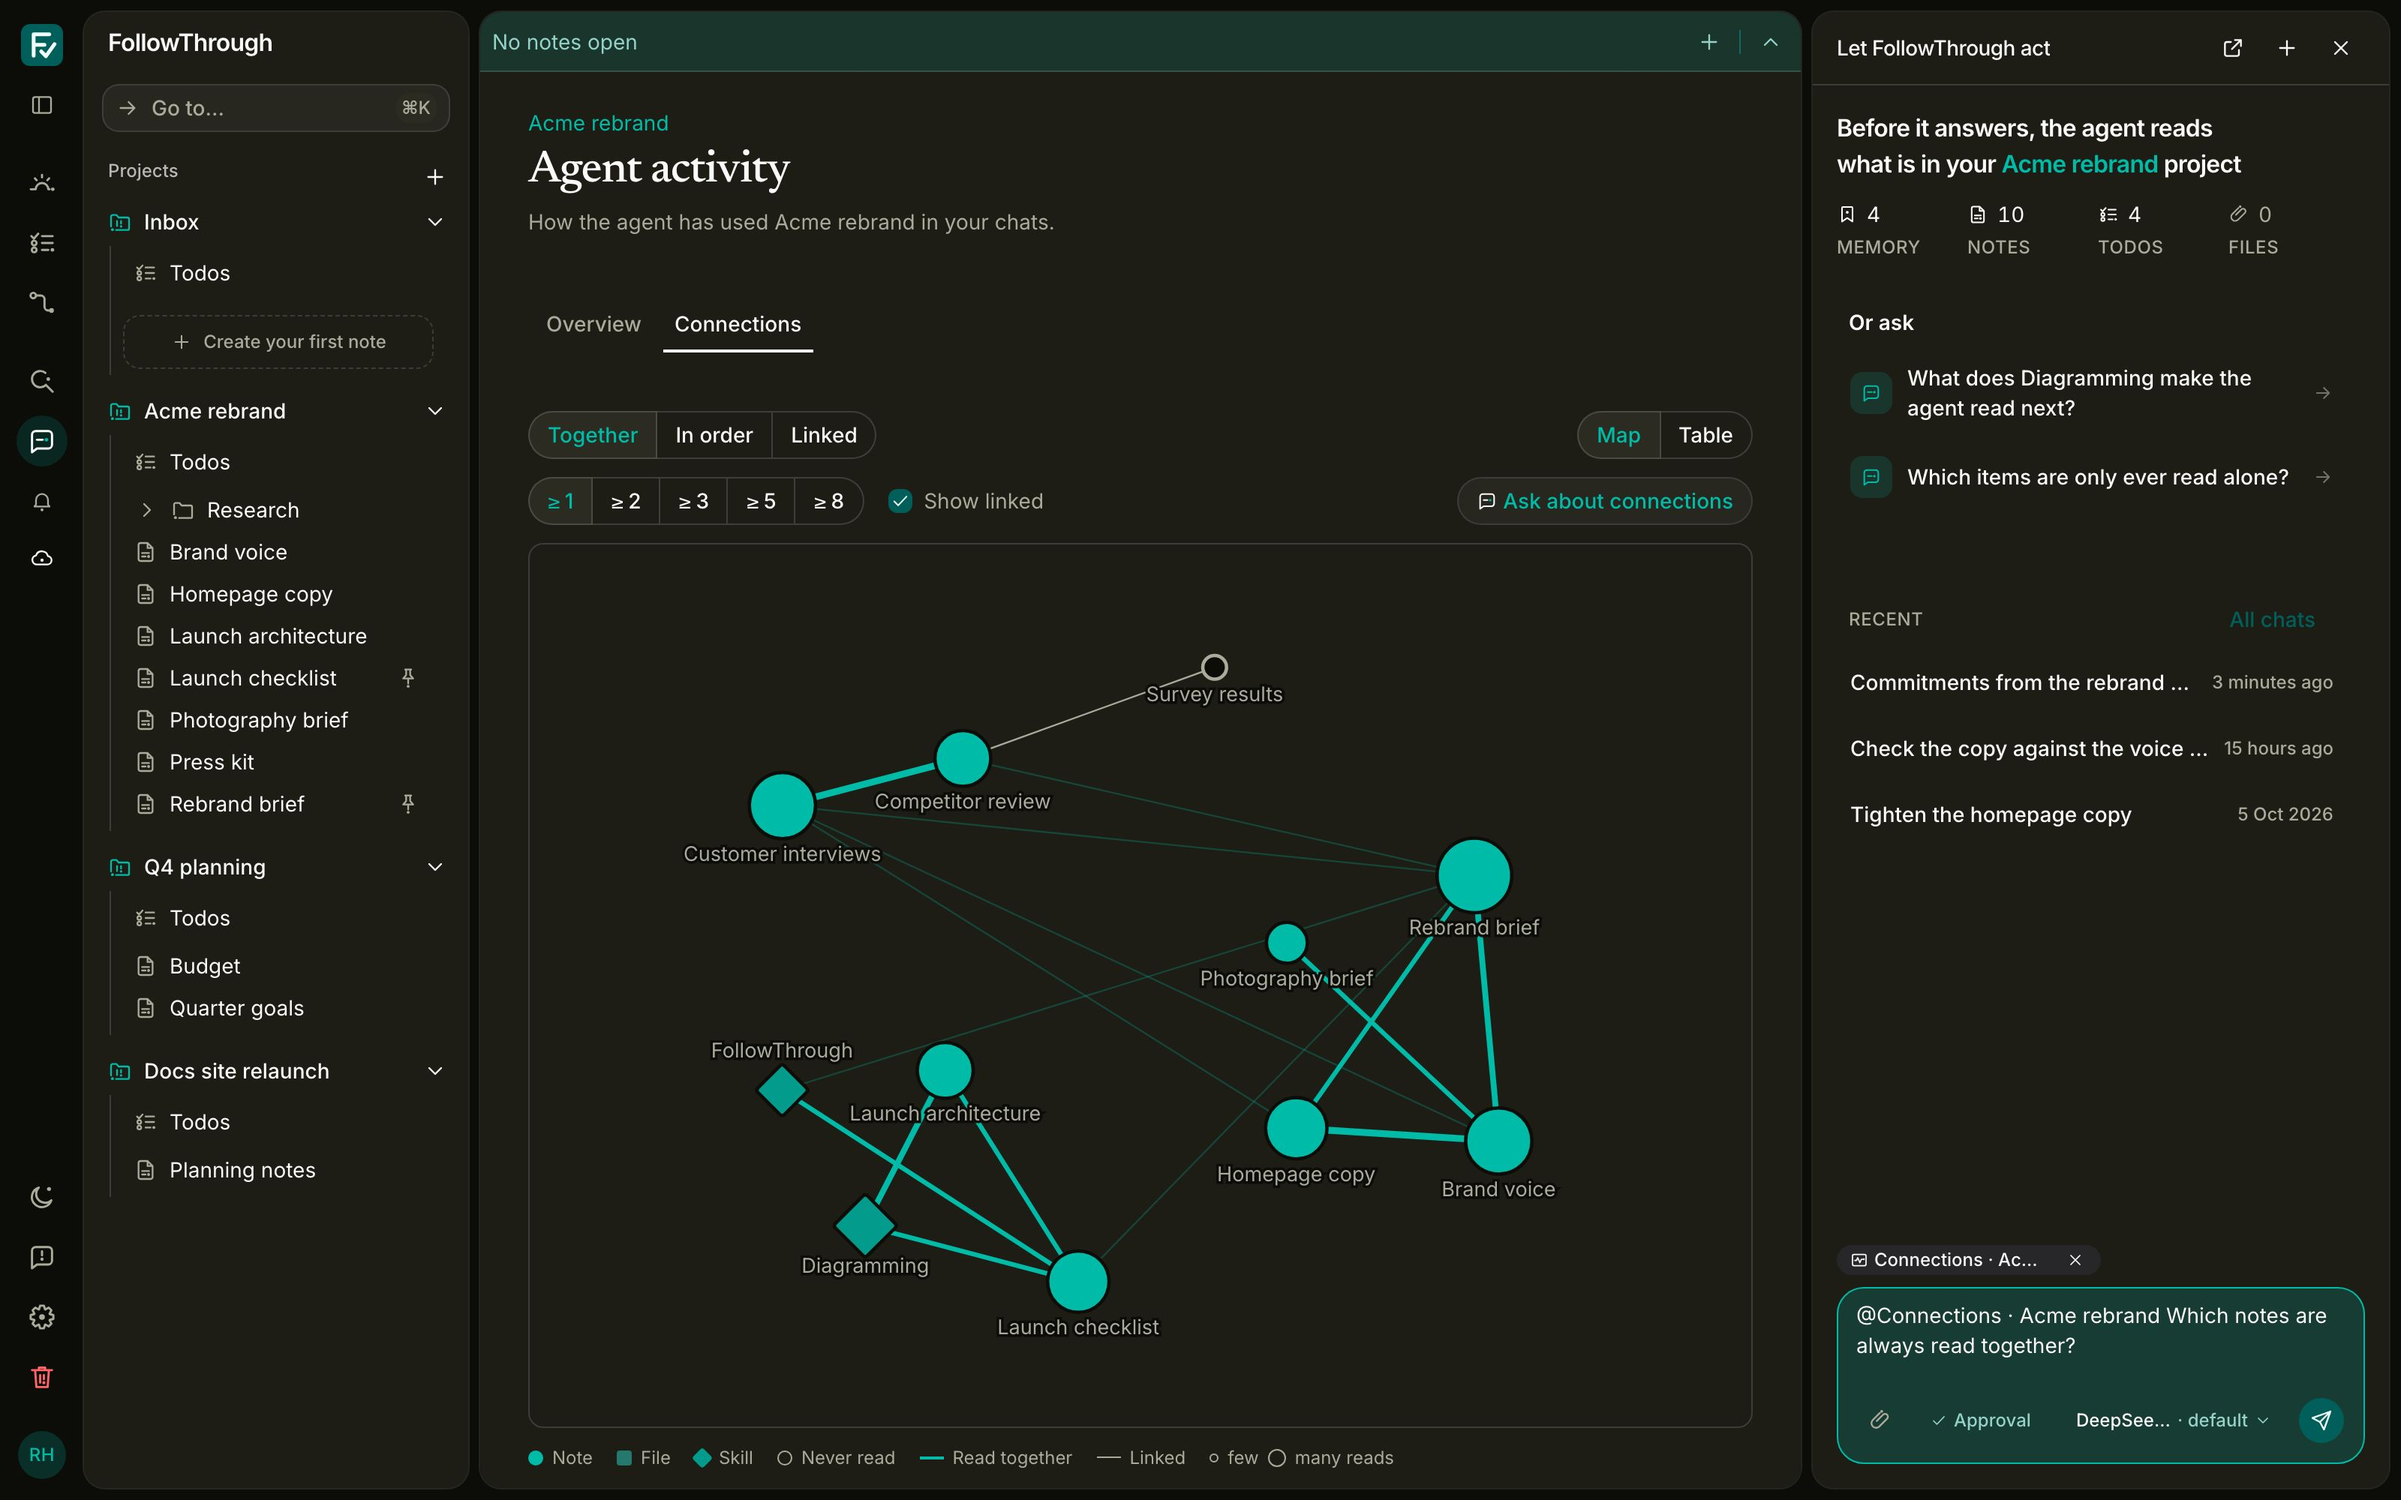
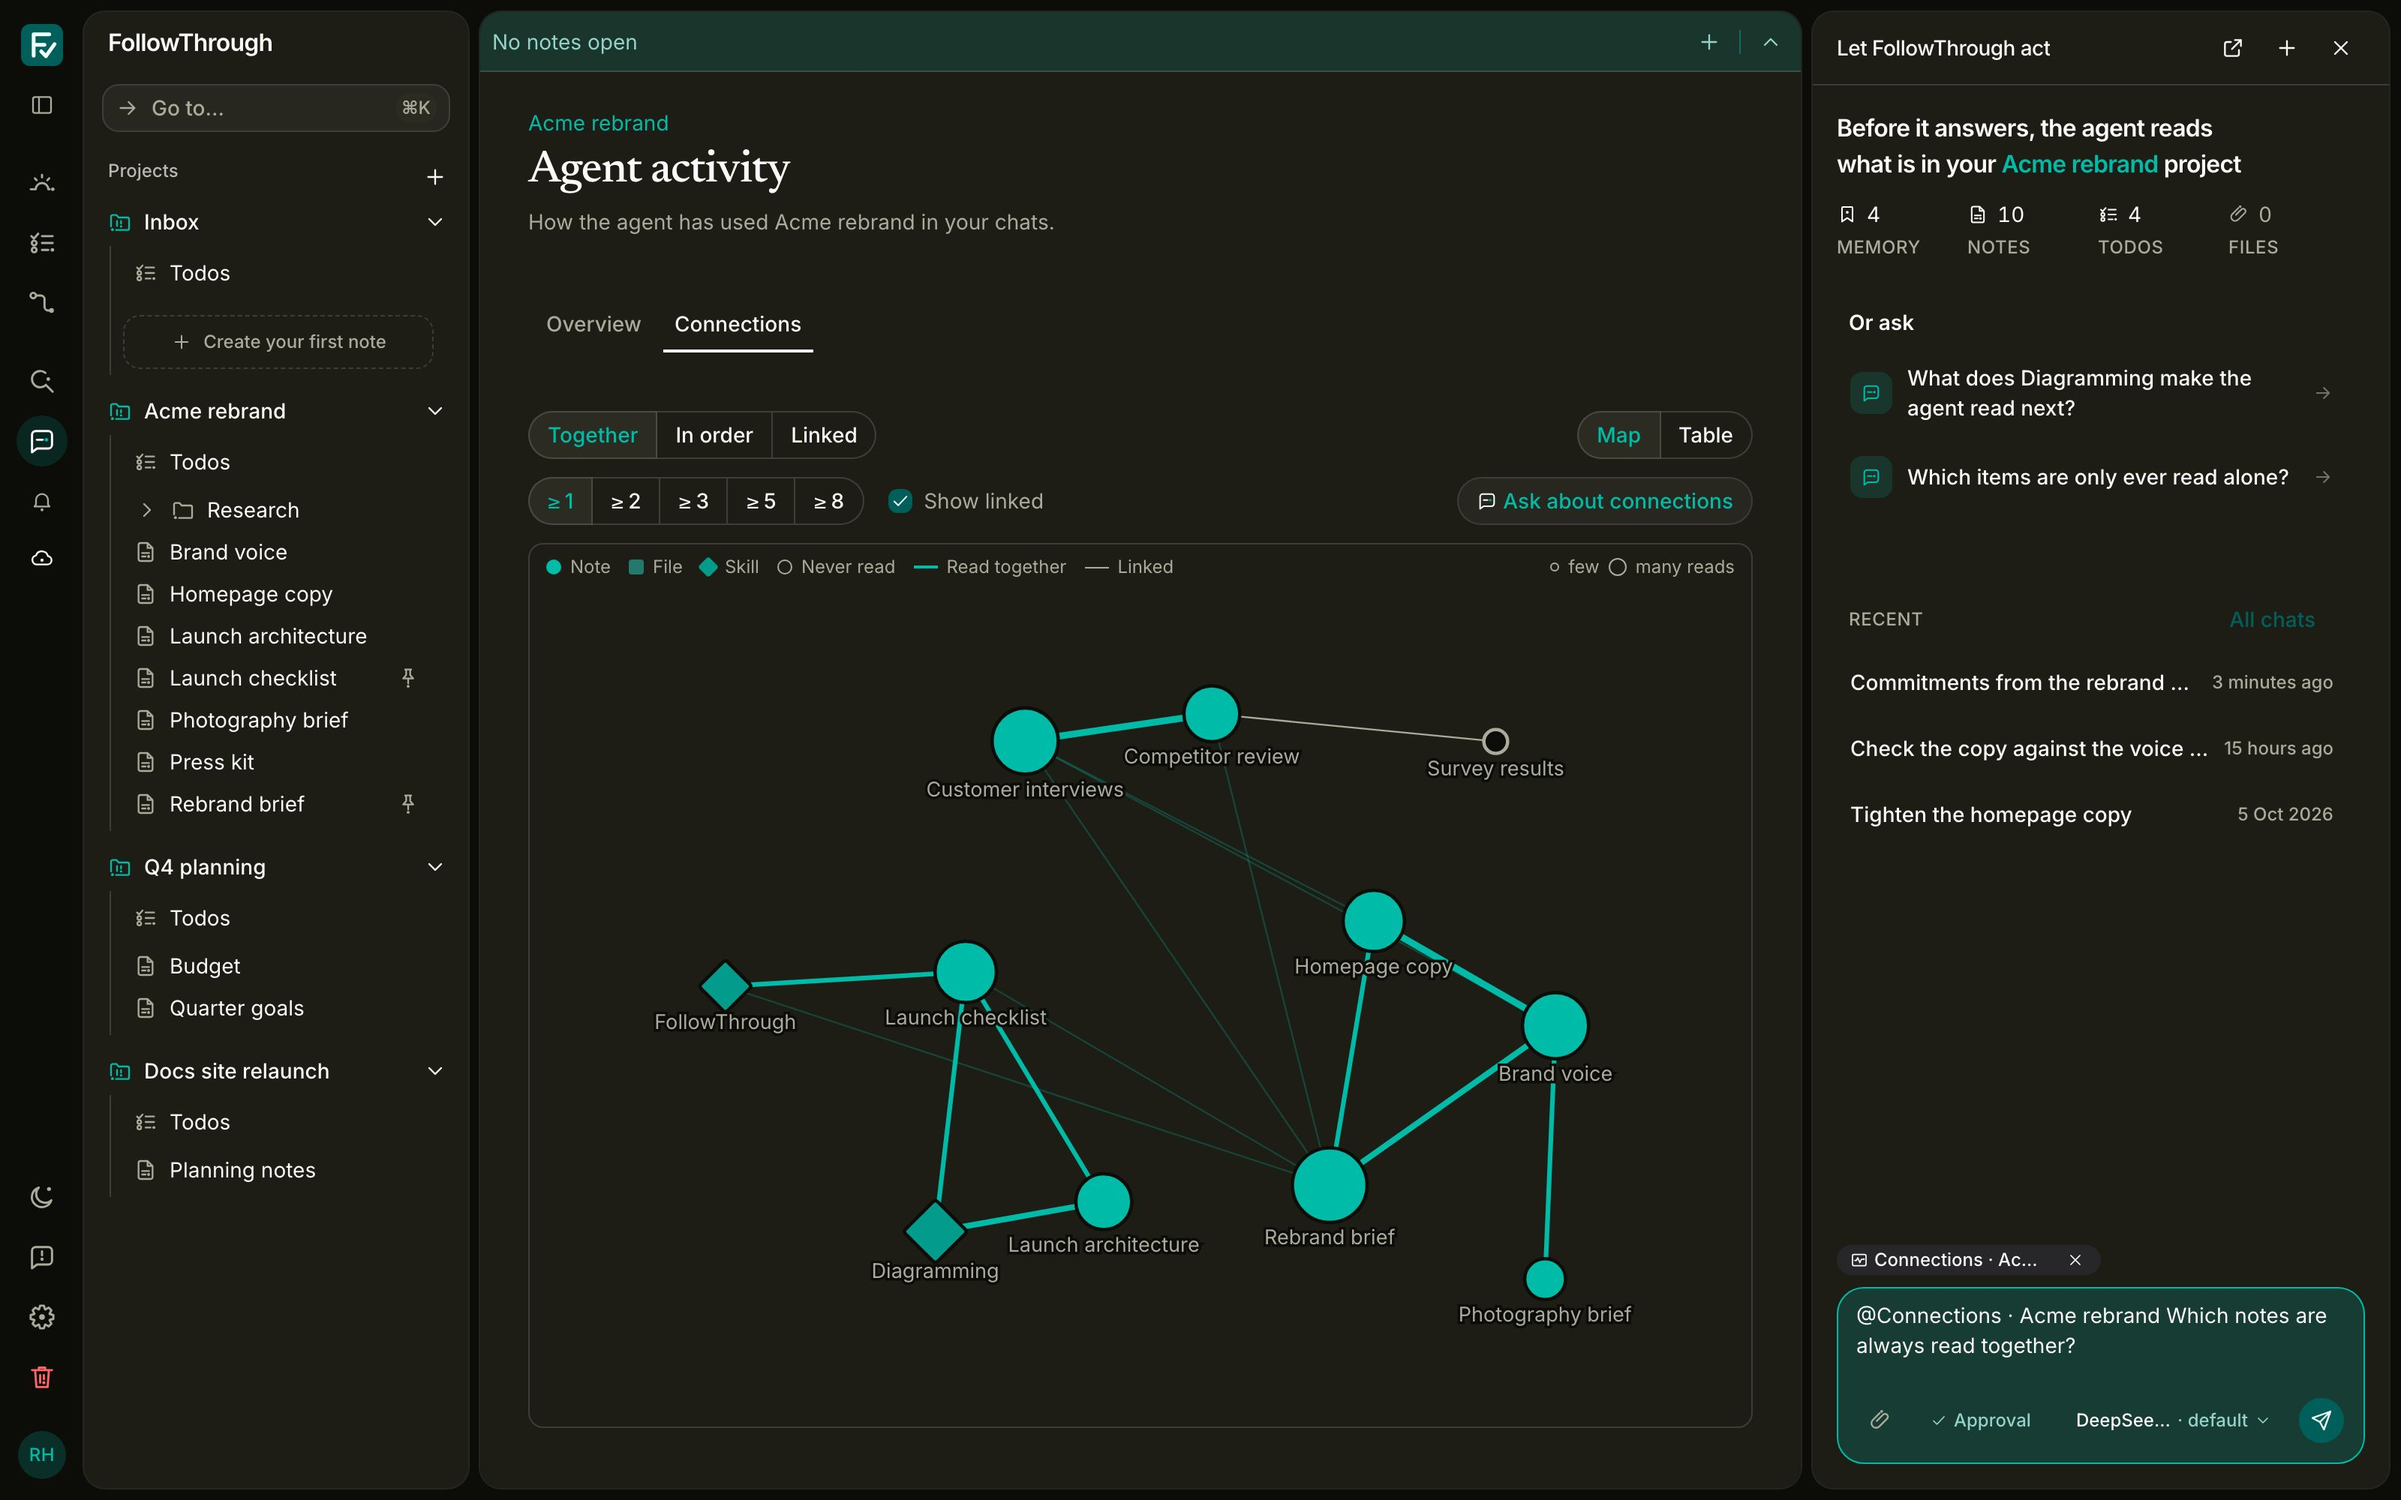
feat(context-usage): draw the connections legend inside the map's top corners

diff --git a/src/lib/components/projects/context-usage/connections/connections-map.svelte b/src/lib/components/projects/context-usage/connections/connections-map.svelte
@@ -181,50 +181,59 @@
 						{ego ? 'Show every item' : `Only ${selectedNode.item.title} and what it is read with`}
 					</Button>
 				{/if}
-				<ConnectionsGraph
-					nodes={view.placed}
-					{layoutNodes}
-					edges={view.edges}
-					{layout}
-					{selected}
-					{emphasis}
-					onselect={select}
-				/>
+				<!-- The legend sits inside the map's top corners, over a band the layout keeps clear. -->
+				<div class="relative">
+					<ConnectionsGraph
+						nodes={view.placed}
+						{layoutNodes}
+						edges={view.edges}
+						{layout}
+						{selected}
+						{emphasis}
+						onselect={select}
+					/>
+					<div
+						class="pointer-events-none absolute inset-x-3 top-2 flex items-start justify-between gap-4 text-xs text-muted-foreground"
+					>
+						<ul class="flex flex-wrap gap-x-3 gap-y-1" aria-label="Legend">
+							<li class="flex items-center gap-1.5">
+								<span class="size-2.5 rounded-full bg-brand"></span>Note
+							</li>
+							<li class="flex items-center gap-1.5">
+								<span class="size-2.5 rounded-xs bg-chart-2"></span>File
+							</li>
+							<li class="flex items-center gap-1.5">
+								<span class="size-2.5 rotate-45 rounded-xs bg-chart-3"></span>Skill
+							</li>
+							<li class="flex items-center gap-1.5">
+								<span class="size-2.5 rounded-full border-[1.5px] border-muted-foreground"
+								></span>Never read
+							</li>
+							{#if mode !== 'linked'}
+								<li class="flex items-center gap-1.5">
+									<span class="h-0.5 w-4 bg-brand"></span>{mode === 'order'
+										? 'Read first → read next'
+										: 'Read together'}
+								</li>
+							{/if}
+							{#if mode === 'linked' || showLinked}
+								<li class="flex items-center gap-1.5">
+									<span class="h-px w-4 bg-muted-foreground"></span>Linked
+								</li>
+							{/if}
+						</ul>
+						<ul class="flex shrink-0 items-center" aria-label="Size">
+							<li class="flex items-center gap-1.5">
+								<span class="size-1.5 rounded-full border border-muted-foreground"></span>few
+								<span class="size-3 rounded-full border-[1.5px] border-muted-foreground"></span>many
+								reads
+							</li>
+						</ul>
+					</div>
+				</div>
 			{/if}
 
 			<div class="flex flex-col gap-1.5 text-xs text-muted-foreground">
-				<ul class="flex flex-wrap gap-x-4 gap-y-1" aria-label="Legend">
-					<li class="flex items-center gap-1.5">
-						<span class="size-2.5 rounded-full bg-brand"></span>Note
-					</li>
-					<li class="flex items-center gap-1.5">
-						<span class="size-2.5 rounded-xs bg-chart-2"></span>File
-					</li>
-					<li class="flex items-center gap-1.5">
-						<span class="size-2.5 rotate-45 rounded-xs bg-chart-3"></span>Skill
-					</li>
-					<li class="flex items-center gap-1.5">
-						<span class="size-2.5 rounded-full border-[1.5px] border-muted-foreground"></span>Never
-						read
-					</li>
-					{#if mode !== 'linked'}
-						<li class="flex items-center gap-1.5">
-							<span class="h-0.5 w-4 bg-brand"></span>{mode === 'order'
-								? 'Read first → read next'
-								: 'Read together'}
-						</li>
-					{/if}
-					{#if mode === 'linked' || showLinked}
-						<li class="flex items-center gap-1.5">
-							<span class="h-px w-4 bg-muted-foreground"></span>Linked
-						</li>
-					{/if}
-					<li class="flex items-center gap-1.5">
-						<span class="size-1.5 rounded-full border border-muted-foreground"></span>few
-						<span class="size-3 rounded-full border-[1.5px] border-muted-foreground"></span>many
-						reads
-					</li>
-				</ul>
 				{#each ambient as node (node.key)}
 					<p>
 						<Button

diff --git a/src/lib/components/projects/context-usage/connections/graph-layout.ts b/src/lib/components/projects/context-usage/connections/graph-layout.ts
@@ -13,6 +13,8 @@ import {
 export const GRAPH_WIDTH = 720;
 export const GRAPH_HEIGHT = 520;
 const MARGIN = 28;
+/** Kept clear at the top for the legend the map draws over its corners. */
+const LEGEND_BAND = 26;
 
 export interface LayoutNode {
 	readonly key: string;
@@ -261,11 +263,12 @@ export function layoutGraph(
 	];
 	const scale = Math.min(
 		(GRAPH_WIDTH - 2 * MARGIN) / Math.max(1, maxX - minX),
-		(GRAPH_HEIGHT - 2 * MARGIN - LABEL_HEIGHT) / Math.max(1, maxY - minY),
+		(GRAPH_HEIGHT - 2 * MARGIN - LABEL_HEIGHT - LEGEND_BAND) / Math.max(1, maxY - minY),
 		1.6
 	);
 	const offsetX = (GRAPH_WIDTH - (maxX - minX) * scale) / 2;
-	const offsetY = (GRAPH_HEIGHT - LABEL_HEIGHT - (maxY - minY) * scale) / 2;
+	const offsetY =
+		LEGEND_BAND + (GRAPH_HEIGHT - LEGEND_BAND - LABEL_HEIGHT - (maxY - minY) * scale) / 2;
 	const placed = new Map<string, PlacedNode>(
 		simNodes.map((node) => [
 			node.key,

diff --git a/src/lib/components/projects/context-usage/connections/connections-map.svelte.spec.ts b/src/lib/components/projects/context-usage/connections/connections-map.svelte.spec.ts
@@ -52,7 +52,7 @@ it('keys node size in the legend', async () => {
 		projectName: 'Launch'
 	});
 	await expect
-		.element(screen.getByRole('list', { name: 'Legend' }))
+		.element(screen.getByRole('list', { name: 'Size' }))
 		.toHaveTextContent(/few\s*many\s*reads/);
 });
 
